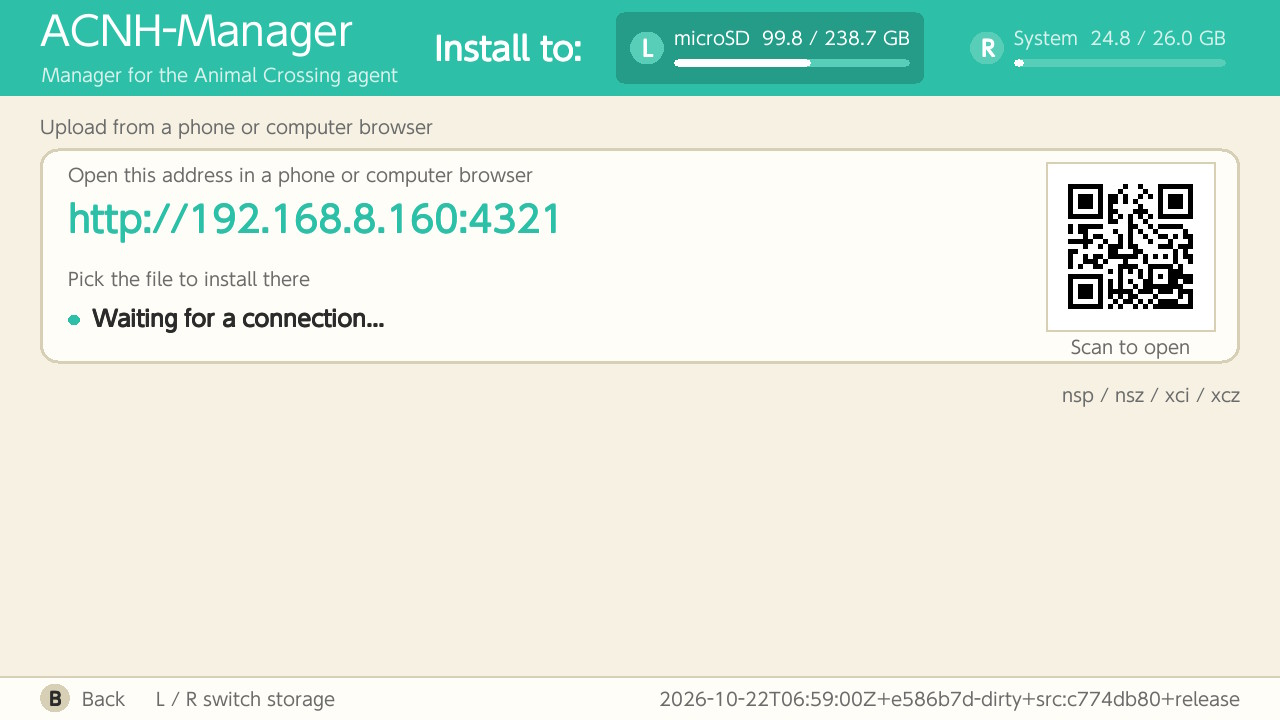
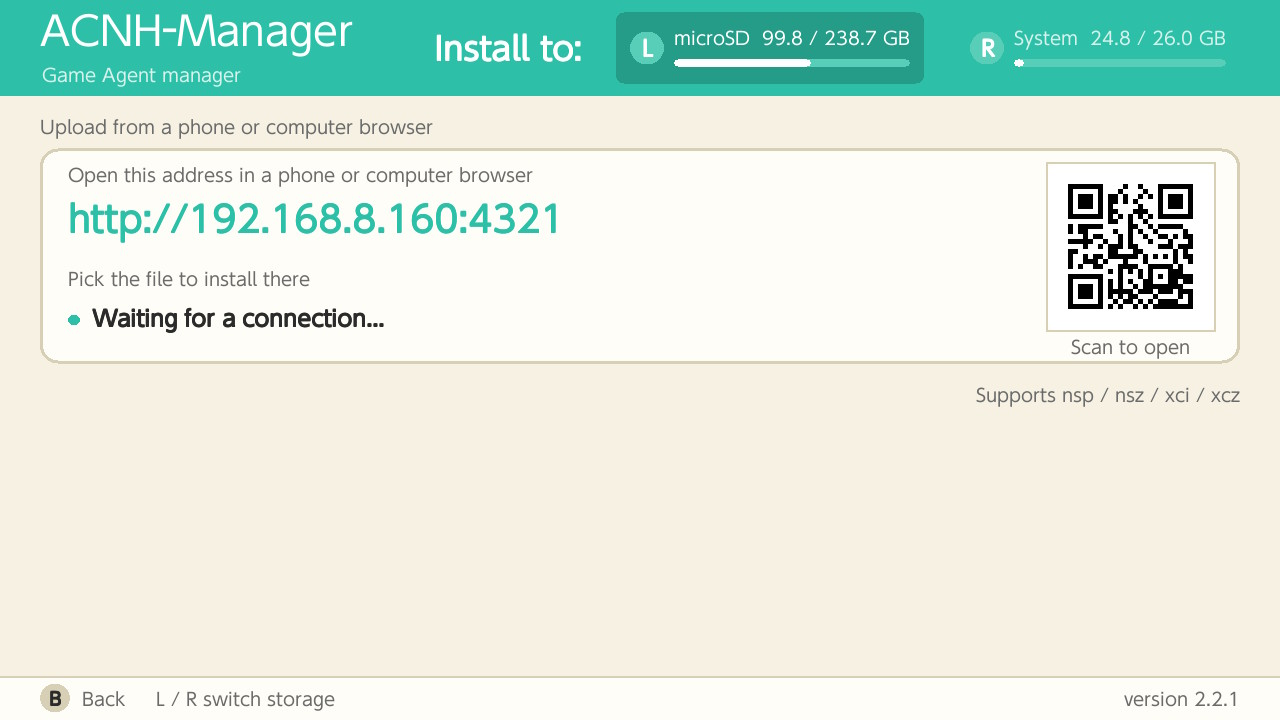
docs: refresh 2.2.1 store screenshots

Changed region(s): [[0.5312, 0.9472, 0.9688, 0.9778], [0.0312, 0.0917, 0.3125, 0.1222], [0.7812, 0.5194, 0.8125, 0.5806]]

diff --git a/docs/device-acceptance.md b/docs/device-acceptance.md
@@ -1719,9 +1719,9 @@ host tests 覆盖了当前模式与快捷方式进程的四种组合,当前为 `
 模态页并回首页。真机复验:从首页安装快捷方式,看到「安装完成」后按一次 `B`,直接回到首页状态页。
 发布构建 `88665a130ae5cee2…` 的 `verify-release` 59 项检查全过。
 
-## 2.0.0 英文商店截图(2026-10-22)
+## 2.2.1 英文商店截图(2026-10-23)
 
-版本升到 `2.0.0` 后,从 Switch 真机的英文界面重新抓取四张商店截图:
+版本升到 `2.2.1` 后,从 Switch 真机的英文界面重新抓取四张商店截图:
 
 | 文件 | 界面 |
 |---|---|
